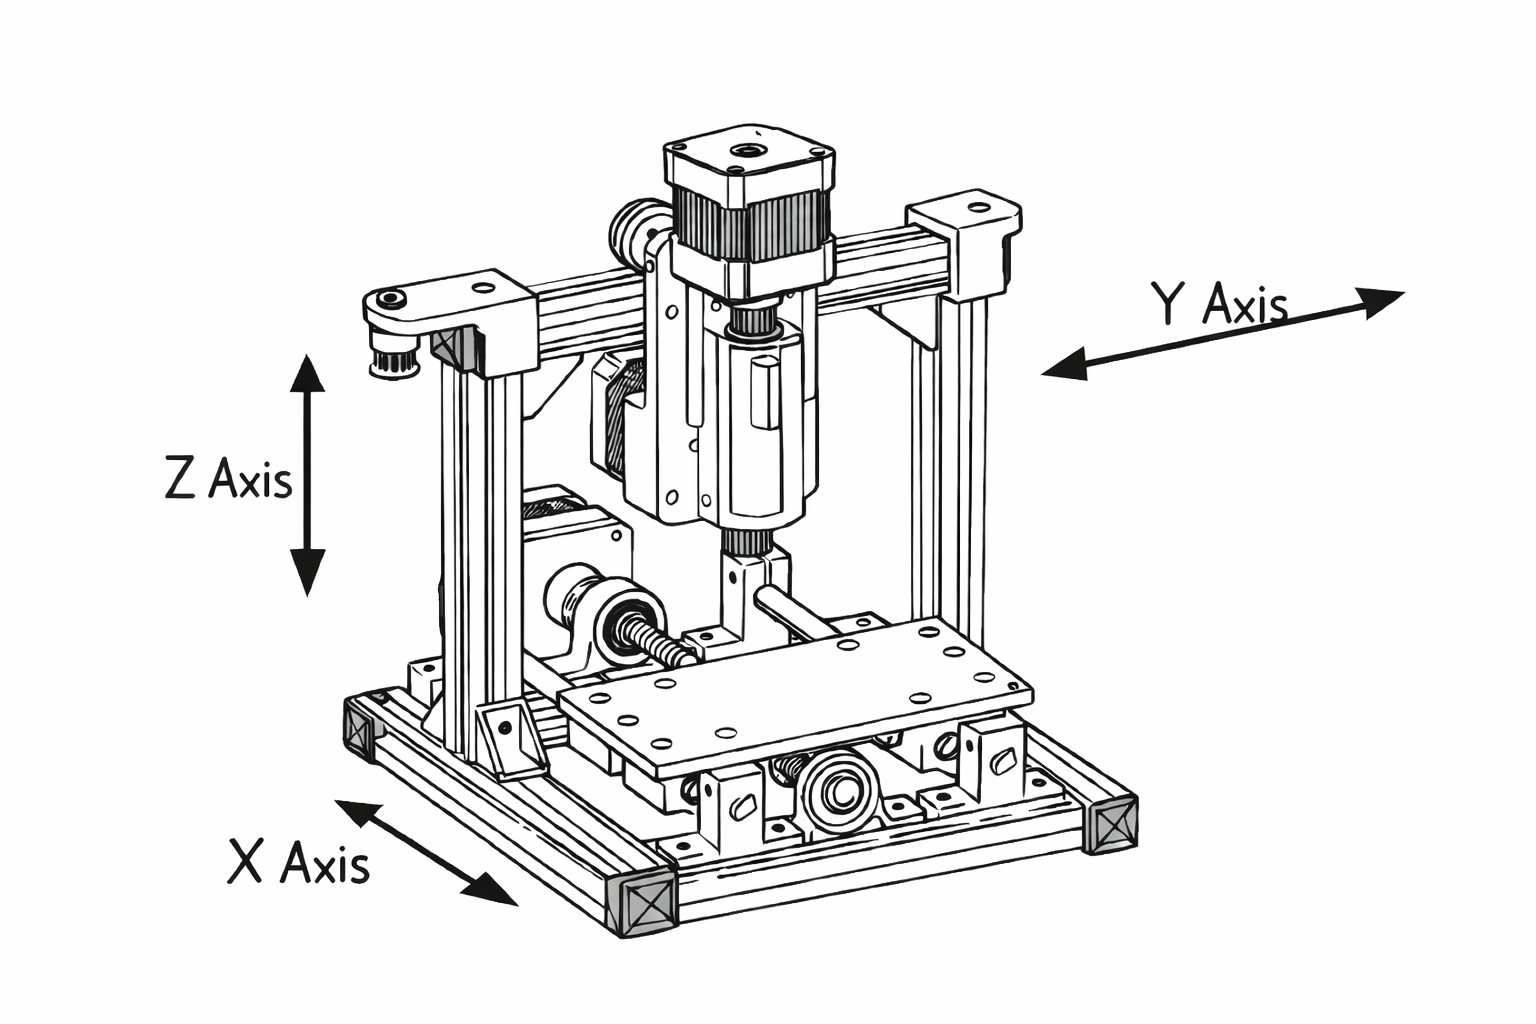
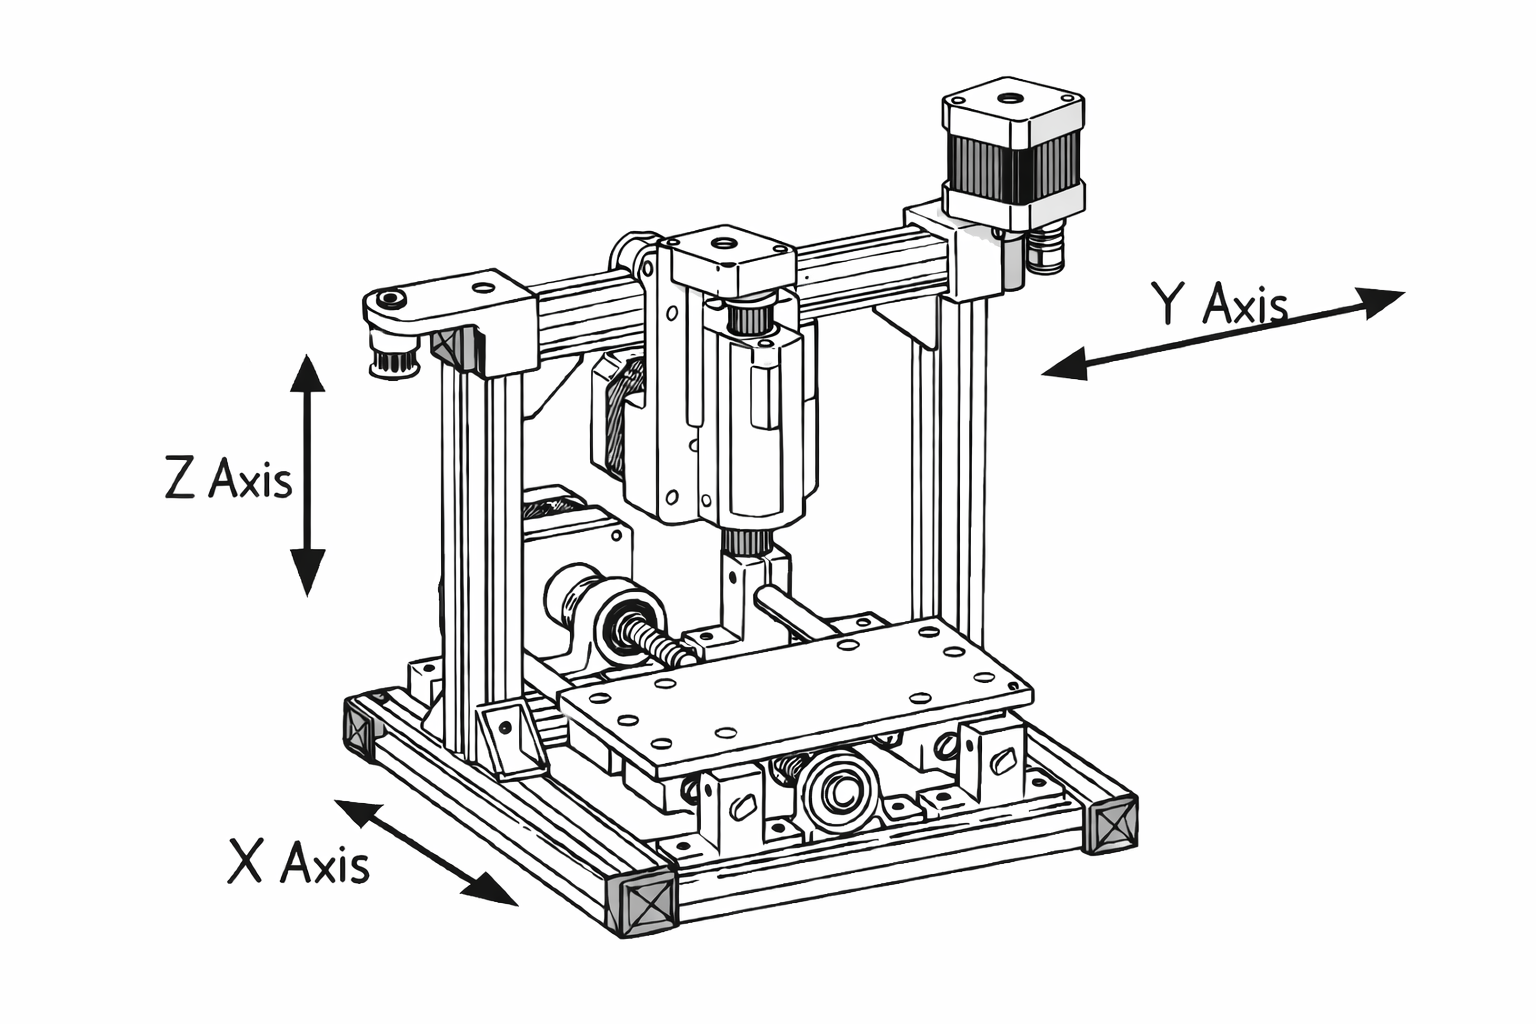
cambios arquitecturas

Changed region(s): [[0.375, 0.0625, 0.7188, 0.375], [0.3438, 0.6875, 0.375, 0.7188]]

diff --git a/arquitectura-general.md b/arquitectura-general.md
@@ -18,7 +18,7 @@ De forma general, una CNC puede descomponerse en los siguientes bloques:
 
 La pieza, contorno o trayectoria se genera primero en un entorno CAD o a partir de un flujo 2D/3D. Después, un software CAM o una herramienta intermedia convierte esa geometría en trayectorias y parámetros de proceso.
 
-![Arquitectura general de una CNC](assets/img/arquitectura/cnc-digital.png)
+![Arquitectura general de una CNC](assets/img/mods/2.png)
 
 ### 1.2 Programa de máquina
 
@@ -50,7 +50,10 @@ En una CNC cartesiana, los movimientos se organizan normalmente sobre los ejes *
 Por eso en una máquina real se combinan dos familias de componentes:
 
 - **componentes de guiado**, que obligan al carro a desplazarse recto;
+![Maquina ejemplo CNC](assets/img/arquitectura/guias.png)
+
 - **componentes de transmisión**, que son los que efectivamente lo empujan o arrastran.
+![Maquina ejemplo CNC](assets/img/arquitectura/mecanismos.pngs)
 
 Esta distinción es importante desde el inicio porque evita una confusión muy común: una guía lineal no reemplaza una banda, un husillo o una cremallera; cada elemento resuelve una función distinta.
 
